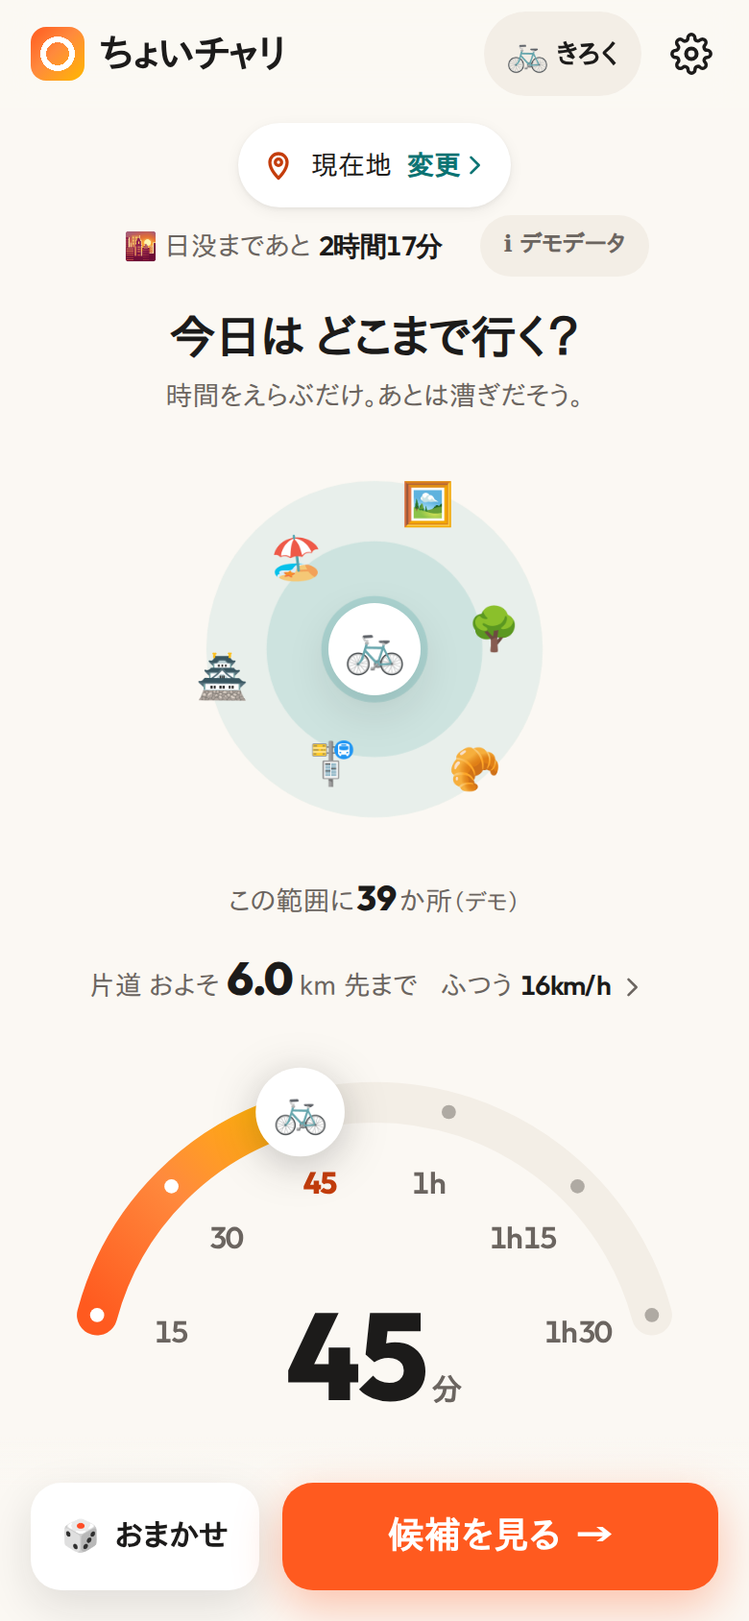
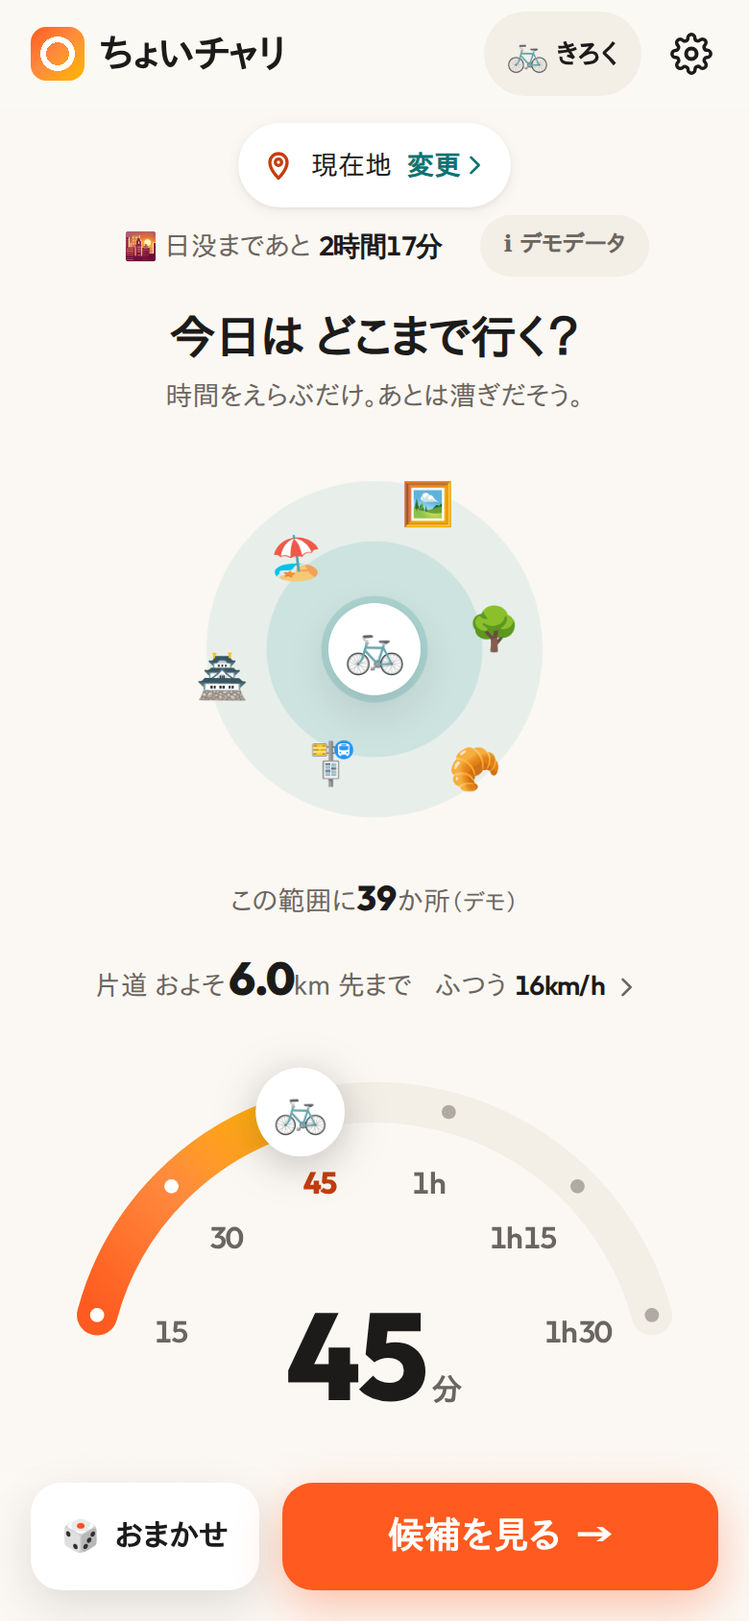
docs: DESIGN v1.1, PRD decisions, screenshots; polish return strip and detail sub-line
Claude-Session: https://claude.ai/code/session_01PC1o1NR9pjdhqeaDhG5sLP

Changed region(s): [[0.1231, 0.5237, 0.8615, 0.6161]]

diff --git a/src/components/ReturnCard.tsx b/src/components/ReturnCard.tsx
@@ -12,7 +12,9 @@ export function ReturnCard({ departure, onYes, onNo }: { departure: Departure; o
         {emoji}
       </span>
       <h2 id={titleId} className="return-card__title">
-        <span className="return-card__name">{departure.name}</span>、行ってきた？
+        <span className="return-card__name">{departure.name}</span>
+        <span className="visually-hidden">、</span>
+        <span className="return-card__ask">行ってきた？</span>
       </h2>
       <button type="button" className="btn btn--primary return-card__yes pressable" onClick={onYes}>
         ✓ 走った

diff --git a/src/styles/states.css b/src/styles/states.css
@@ -194,13 +194,22 @@
   font-size: 20px;
 }
 .return-card__title {
-  overflow: hidden;
-  font-size: var(--fs-sub);
-  line-height: 1.35;
+  display: grid;
+  min-width: 0;
+  font-size: var(--fs-body);
+  line-height: 1.3;
   font-weight: 700;
-  display: -webkit-box;
-  -webkit-line-clamp: 2;
-  -webkit-box-orient: vertical;
+}
+.return-card__name {
+  min-width: 0;
+  overflow: hidden;
+  text-overflow: ellipsis;
+  white-space: nowrap;
+}
+.return-card__ask {
+  color: var(--c-text-sub);
+  font-size: var(--fs-caption);
+  font-weight: 500;
 }
 .return-card__yes {
   min-height: 40px;

diff --git a/src/components/HomeView.tsx b/src/components/HomeView.tsx
@@ -75,6 +75,7 @@ export function HomeView({
         <h1 className="home__title">今日は どこまで行く？</h1>
         {firstRun && <p className="home__lead">時間をえらぶだけ。あとは漕ぎだそう。</p>}
       </div>
+      {/* 出発地が未確定のときは案内カードを優先し、レンジは出さない（ダイヤルを CTA の上に収めるため） */}
       {!needsOrigin && (
         <div className="home__reach-art">
           <ReachRings index={index} max={ROUND_TRIP_MINUTES.length - 1} categories={categories} />

diff --git a/src/components/DetailSheet.tsx b/src/components/DetailSheet.tsx
@@ -198,7 +198,7 @@ export function DetailSheet({
               <ElevationIcon label={elev.label} size={12} />
               {round ? (
                 <>
-                  片道 <span className="num">+{trip.climbM}m</span> · {text.long}
+                  片道 <span className="num">+{trip.climbM}m</span> · {text.short}
                 </>
               ) : (
                 text.long

diff --git a/src/styles/detail.css b/src/styles/detail.css
@@ -72,11 +72,10 @@
   display: inline-flex;
   align-items: center;
   gap: 3px;
-  flex-wrap: wrap;
-  justify-content: center;
   max-width: 100%;
   margin-top: 2px;
   font-size: 11px;
+  white-space: nowrap;
   font-weight: 600;
 }
 .stats > .route-pill {

diff --git a/docs/DESIGN.md b/docs/DESIGN.md
@@ -1,6 +1,7 @@
-# DESIGN: Cycling Route Finder デザイン仕様書 v1
+# DESIGN: Cycling Route Finder デザイン仕様書 v1.1
 
 作成: UIデザイン / 2026-10-04 / 対象: PRD v1
+改訂: 2026-10-05 v1.1（BACKLOG-2 を反映。主な変更は各節の「v1.1」注記と §9 の変更点一覧）
 実装前提: Vite + React + TypeScript + 素のCSS（CSS Modules または単一CSS）。外部UIライブラリなし。アイコンはインラインSVG＋絵文字。
 
 ---
@@ -61,7 +62,17 @@
 
 ダーク切替: `@media (prefers-color-scheme: dark)` で `:root` を上書き。`<meta name="theme-color">` も media 付きで2つ出す（§7）。
 
-注: 写真上の文字は常に白 `#FFFFFF` ＋ `--c-photo-overlay`。高低差バッジの文字色は Light で白、Dark で `#0F1419`（彩度の高い背景に対する可読性のため）。
+注: 写真上の文字は常に白 `#FFFFFF` ＋ `--c-photo-overlay`。
+
+**v1.1 高低差バッジのトーン（BACKLOG-2 D11）**: 塗りつぶしをやめ、**淡い背景＋濃い文字**に統一。
+
+| 変数 | Light | Dark | 用途 |
+|---|---|---|---|
+| `--c-flat-soft` / `--c-flat-ink` | `#E1F4E9` / `#137A45` | `rgba(61,214,140,.16)` / `#3DD68C` | 🟢 バッジ背景 / 文字・アイコン |
+| `--c-rolling-soft` / `--c-rolling-ink` | `#FFF0C2` / `#8F6300` | `rgba(255,201,61,.16)` / `#FFC93D` | 🟡 |
+| `--c-hill-soft` / `--c-hill-ink` | `#FDE2E2` / `#C62828` | `rgba(255,107,110,.16)` / `#FF6B6E` | 🔴 |
+
+写真上のピル（カテゴリ）: Light `rgba(255,255,255,.88)`＋黒文字、Dark は半透明の暗色 `rgba(15,20,25,.62)`＋白文字。どちらも `backdrop-filter: blur(6px)`（D7）。
 
 ### 2.2 タイポグラフィ
 
@@ -165,6 +176,13 @@ Dark時の影は `rgba(0,0,0,.4〜.6)` に置き換え、カードは影より `
 - 初期値: 前回選択（localStorage）、初回は 45分。
 - 「候補を見る」押下で一覧へ遷移（取得はダイヤル確定時点で先行開始し、体感を短縮）。
 
+**v1.1 改訂（BACKLOG-2 D8/D15）**
+- 到達レンジは **240px**。最外円のスケールは **0.55〜1.0**。円上の絵文字は**いまの時間で行ける候補に実際にあるカテゴリ**から多い順に最大 6 個、ポップイン（60ms ずつ遅延）。絵文字は親の scale を打ち消して常に **22px**。
+- レンジの下に「この範囲に **N** か所」（デモデータのときは「（デモ）」を添える）。取得中は出さない。
+- 「片道 およそ **6.0**km 先まで」と速度リンク「ふつう 16km/h ›」は同じ行。**ダイヤルは CTA の直上**に寄せる（ホームは `min-height: 100dvh − ヘッダー`、ダイヤルブロックを `margin-top: auto`）。
+- 出発地が未確定（位置情報オフ）のとき、主 CTA は「**出発地をえらぶ →**」（出発地シートを開く）。案内カードが gold 枠なので、現在地ピルには gold 縁を付けない（二重表示の解消）。
+- 案内カードの文言は位置が取れなかった理由で分ける（拒否 / タイムアウト / 取得不可 / 非対応）。タイムアウト・取得不可は「もう一度ためす」を主ボタンに。
+
 ### 3.2 候補一覧
 
 ```
@@ -190,19 +208,28 @@ Dark時の影は `rgba(0,0,0,.4〜.6)` に置き換え、カードは影より `
 └──────────────────────────────┘
 ```
 
-カード仕様:
+カード仕様（v1.1: 写真下部のメタは「⏱ 40分 · 片道5.4km」, D2）:
 - 写真 `aspect-ratio: 16/10`、`object-fit: cover`、未取得時はフォールバック（§5）を表示し、写真が来たらクロスフェード。
 - 写真上: 左上カテゴリピル（`rgba(255,255,255,.9)` 背景・黒文字・`--fs-caption`）、右上 ♡（44px タップ領域）。下部に名称（2行まで省略）とメタ「片道5.8km · 往復42分」。数字は `--font-num`。
 - 写真下の帯（高さ 48px、`--c-surface`）: 左に高低差バッジ（§4）、右にミニ標高グラフ（幅 96px × 28px、SVG polyline、線色＝ラベル色、下を同色 15% で塗り）。標高未取得中は帯の右側をシマー。
 - 訪問済み: メタ行末に `✓ 行った` ピル（`--c-accent`）。
 - 1列レイアウト（スマホ）。幅 ≥ 720px で2列、≥ 1080px で3列（`grid-template-columns: repeat(auto-fill, minmax(320px,1fr))`）。
 
-フィルタ/並び替え:
+フィルタ/並び替え（v1.1: **1 段の横スクロール**に統合, D13）:
 - ヘッダー下 sticky（`top: 56px`、背景 `--c-bg` 92% + `backdrop-filter: blur(12px)`）。
+- 並び: 高低差チップ（全部/平坦/ゆる/ヒル）→ 区切り線 → カテゴリチップ。カテゴリは**選択中だけラベルを出す**（非選択は絵文字の丸チップ）。
+- **件数と並び順は 1 行**: 「**12**件（39件中） リセット　　　[近い順 ▾]」。
 - 高低差チップ: 単一選択（全部/平坦/ゆる/ヒル）。選択時に各色の塗り＋白文字。
 - カテゴリ: 複数選択の絵文字丸チップ（40px円、ラベルは `aria-label`）。選択時 `--c-primary` リング 2px。
 - 並び替え: ネイティブ `<select>` を見た目だけ整える（近い順 / 遠い順 / 平坦順 / ランダム / 行ったことない順）。
-- 件数行: 「32件の行き先」＋デモ時は「· デモデータ」ピル（§3.6）。
+- 件数行: 「**32**件の行き先」＋デモ時は「デモデータ」ピル（§3.6）。デモの注記は**この 1 か所だけ**（カードごとの注記はしない, D9）。
+- FAB（🎲）: **おすすめだけを表示中は出さない**。一覧では下スクロールで隠し、上スクロールで出す。最後のカードの下に `padding-bottom: 88px`（D4）。
+
+**今日のおすすめカード（v1.1, D9）**
+- 写真（16:10、暗いオーバーレイなし。カテゴリピルのために上部 38% だけ薄い影）→ 名称 → 「⏱ **40**分 · 片道**5.4**km」（数字 28px / 800）と右にミニ標高グラフ（88×32）→ 高低差バッジ → 主ボタン「🚲 Googleマップで出発 →」。
+- 詳細は**写真かタイトルのタップ**で開く（「くわしく」ボタンは置かない）。
+- 「⏱」の時間は現在のルート（既定 往復）の走行目安、距離は**片道**と明記。数値はカード・ガチャ・詳細・出発記録で同じ計算（§4.1）。
+- 実 API が失敗してデモに落ちたとき（`?demo=1` 以外）は、主ボタンを「くわしく見る →」にしてカードから直接は出発させない（詳細の注意書き付きボタンのみ, C6）。
 - フィルタで0件になった時は §3.6 の空状態を一覧内に表示。
 
 ### 3.3 詳細ボトムシート
@@ -213,34 +240,40 @@ Dark時の影は `rgba(0,0,0,.4〜.6)` に置き換え、カードは影より `
 ┌──────────────────────────────┐
 │            ━━━               │ ← グラバー 36×4px
 │ ┌──────────────────────────┐ │
-│ │     [ 写真 横スワイプ ]    │ │ ← 複数枚ならドット表示、高さ 220px
+│ │     [ 写真 ]               │ │ ← 高さ 220px
 │ │ 🌳 公園              ♡  ✕│ │
 │ └──────────────────────────┘ │
 │ 代々木公園                     │ ← h1
-│ ┌────────┬────────┬────────┐ │
-│ │ 6.2 km │  44 分  │ +38 m  │ │ ← スタッツ3連（--fs-display）
-│ │ 片道    │ 往復目安 │ 🟢平坦  │ │
-│ └────────┴────────┴────────┘ │
-│ 標高プロファイル    最大勾配 4% │
-│  m ▁▂▂▃▅▆▅▃▂▁▁▂▃▂▁           │ ← 標高図 高さ 120px
-│  🏠 出発            📍 到着    │
 │ ┌────────────┬─────────────┐ │
-│ │  片道で行く  │ ●往復でまわる │ │ ← セグメント切替
+│ │  片道で行く  │ ●往復でまわる │ │ ← セグメント 高さ 40px（v1.1: 店名の下・スタッツの上）
 │ └────────────┴─────────────┘ │
-│ ─ ─ ─ ─ ─ ─ ─ ─ ─ ─ ─ ─ ─ ─  │
-│ [ ✓ 走った！ ]                 │ ← 副ボタン（アウトライン）
+│ ┌────────┬────────┬────────┐ │      [経路で更新] ← 2 秒だけ
+│ │12.4 km │  45 分  │ +22 m  │ │ ← スタッツ3連（--fs-display）
+│ │ 往復    │ 往復の目安│往復の上り│ │
+│ │        │        │片道 +11m · 平坦│
+│ └────────┴────────┴────────┘ │
+│ ※ 滞在時間を含まない走行の目安   │ ← 注記は 1 行（直線推定なら「（道のりは直線から推定）」）
+│ 標高  のんびり平坦   最大勾配 4% │ ← ラベルは見出しの横
+│ 110m ┌────────────────高低差 12m┐│
+│      │ ‥‥‥‥‥‥‥‥‥‥‥‥‥‥‥ │ ← 補助線 1 本
+│  40m └──────────────────────┘│ ← 軸ラベルは軸の端の値
+│  🏠 出発      📍 折り返し   🏠 帰着│
+│ [        ✓ 走った！         ] │ ← 全幅
+│         昨日の分として記録        │ ← テキストリンク
 │ ┌──────────────────────────┐ │
 │ │  🚲 Googleマップで出発 →   │ │ ← 主CTA 56px、下部固定、--sh-glow
 │ └──────────────────────────┘ │
+│ 徒歩で開く      ※デモの架空の場所 │
 └──────────────────────────────┘
 ```
 
-- スタッツ: 数字 `--fs-display`、ラベル `--fs-caption --c-text-sub`。高低差セルは数字の色をラベル色に。
-- 標高プロファイル: SVG。面グラデ（ラベル色 35%→0%）＋線 2px。Y軸は最小/最大値のみ表示、X軸は出発/到着アイコン。往復モード時は折り返し点に縦破線＋「📍」、横幅を往復分に拡張。タップ/ドラッグで縦カーソルと「1.8km地点 · 42m」ツールチップ。経路が直線補間の場合、図の右下に「※ 直線で推定」(`--fs-caption`)。
-- 片道/往復セグメント: 高さ 44px、選択側 `--c-accent` 塗り白文字。切替で距離/時間/獲得標高の数値をカウントアップ（`--dur-base`）。初期は「往復」（運動目的のため）。
-- 主CTA「Googleマップで出発」: `--c-primary`、白文字 18px/700、右端に → が押下で 4px 右へ。新規タブ（PWAでは外部アプリ）で開く。
-- 「走った！」: 押すと §3.5 の記録演出。記録済みの日は「✓ 今日走った！」に変化し無効化ではなくトグル（取り消し可）。
-- フォーカス管理: 開いたらシート見出しへフォーカス、`Esc`/✕ で閉じて元カードへ戻す。`role="dialog" aria-modal="true"`。
+- スタッツ: 数字 `--fs-display`、ラベル `--fs-caption --c-text-sub`。高低差セルの数字とサブ行はラベル色（`--c-*-ink`）。
+- 数値は §4.1 の `tripEstimate` そのもの（カードと同じ）。経路（OSRM）が取れたら数値をカウントアップ（600ms、reduce-motion は即時）し、スタッツ右上に「経路で更新」ピルを 2 秒表示。経路が取れずに直線フォールバックしたときは一覧の推定値のまま（§4）。
+- 標高プロファイル: SVG。面グラデ（ラベル色 35%→0%）＋線 2px。縦レンジ・軸・補助線・「高低差 Xm」は §4.2。往復モード時は横幅を往復分に拡張し、折り返し点に縦破線＋「📍 折り返し」（位置は距離から計算）。タップ/ドラッグで縦カーソルと「1.8km地点 · 42m」ツールチップ。
+- 片道/往復セグメント: 高さ 40px、選択側 `--c-accent` 塗り白文字。初期は「往復」（運動目的のため）。出発地が仮（デモ地点）のときは往復を無効化し「仮の出発地なので片道だけ」。
+- 主CTA「Googleマップで出発」: `--c-primary`、白文字 18px/700、右端に → が押下で 4px 右へ。新規タブ（PWAでは外部アプリ）で開く。出発地を手動で選んだときは URL に `origin=` を明示する（GPS のときは省略して Google マップの現在地を使う）。
+- 「走った！」: 全幅のアウトライン。押すと §3.5 の記録演出。記録済みの日は「✓ 今日走った！」に変化しトグル（取り消し可）。「昨日の分として記録」はその下のテキストリンク。
+- フォーカス管理: 開いたらシート見出しへフォーカス、`Esc`/✕/ブラウザの「戻る」で閉じて元カードへ戻す。`role="dialog" aria-modal="true"`、見出し id は `useId`。背面スクロールは `body { position: fixed; top: -scrollY }` で止める（iOS 対応）。
 
 ### 3.4 ガチャ演出（迷ったらランダム）
 
@@ -252,10 +285,14 @@ Dark時の影は `rgba(0,0,0,.4〜.6)` に置き換え、カードは影より `
 3. パカッと割れて（上下に分離、900〜1150ms）、中から光の放射線（`--c-gold` の放射状 conic-gradient、回転）。
 4. 結果カード（一覧カードと同デザイン、幅 90%）が下からせり上がる（1150〜1600ms）。紙吹雪は CSS のみ（12個の小矩形、ゴールド/オレンジ/ティール、落下 800ms）。
 
-結果カード下のボタン:
-- 主: 「ここに決めた！」→ 詳細シートを開く
+v1.1（D3）: スクリムは `--c-gacha-scrim` ＋ `backdrop-filter: blur(10px)`。演出中は「**N**件の中から…」＋「どこにしよう…」。結果カードは一覧カードと同デザインで、**未訪問なら右上に NEW リボン**（ゴールドの斜め帯）。
+
+結果カード下のボタン（**下寄せ**・親指ゾーン）:
+- 主: 「🚲 **ここに決めて出発 →**」→ Google マップへ直行（出発記録も残す）
+- その下にテキストリンク「くわしく見る」→ 詳細シート
 - 副: 「もう1回 🎲」（直前の結果は除外して再抽選）
 - テキストリンク: 「やめとく」
+- 実 API 失敗でデモに落ちているとき（C6）は直行させず、主ボタンを「くわしく見る →」にする。
 
 reduce-motion: ステップ1〜3を省略し、結果カードをフェード表示（`--dur-fast`）。候補0件時はガチャボタンを無効化せず、押下時に「今の条件だと候補がないみたい。フィルタをゆるめてみよう」トースト。
 
@@ -285,6 +322,9 @@ reduce-motion: ステップ1〜3を省略し、結果カードをフェード表
 ```
 - スタンプ: 訪れた場所ごとに1つ。円形、カテゴリ色の二重線（外 3px・内 1px）、中央に絵文字、下に場所名（1行省略）と日付 `10/04`。わずかに `rotate(-6〜6deg)` をランダムに付けて「押した感」。
 - 「走った！」押下時の演出: 詳細シート上でスタンプが上から落ちて押印（scale 1.4→1、`--ease-spring`、300ms）＋ 🔥バッジが +1 でバウンス。トースト「🔥 4日連続！その調子」。初訪問なら「新しいスタンプ GET！」。
+- v1.1（D18）: 今週の行の今日の列に「今日」を表示（`aria-current="date"`）。目標未達なら「あと N 回で目標クリア」、残り 1 回は「**あと1回で目標クリア！**」を強調色で。
+- v1.1（D10）: 「行ってきた？」は高さ **64px の 1 行の帯**（絵文字 36px / 名称 2 行まで / 「✓ 走った」ピル / ✕）。
+- v1.1（D20）: ストリーク 0 のときのヘッダーボタンは「🚲 きろく」とラベル付き。
 - ストリーク定義（表示上）: 当日または前日に記録があれば継続表示。途切れた時は「また今日からはじめよう」と表示し、過去の最長記録「ベスト 7日」を小さく添える。
 
 ### 3.6 状態別の表示
@@ -295,35 +335,58 @@ reduce-motion: ステップ1〜3を省略し、結果カードをフェード表
 | **段階ロード** | カード本体（名前・距離）→ 写真（フェードイン）→ 標高バッジ/ミニグラフ（シマー→描画）の順で埋まる。未確定の数値は「— m」。 |
 | **空（0件）** | イラスト: 大きな 🧭（64px）＋ 薄い同心円。見出し「この条件だと見つからなかった」本文「時間をのばすか、フィルタをゆるめてみよう」。ボタン「フィルタをリセット」「時間を +15分」。 |
 | **ネットワークエラー** | 自動でモックにフォールバックするため通常は出さない。モックも失敗した場合のみ: 🌧 ＋「電波がちょっと迷子みたい」「もう一度さがす」ボタン。 |
-| **オフライン** | 上部に `--c-text` 背景・白文字の細帯「オフライン中 · 前回の候補を表示中」。Googleマップ CTA は有効のまま（外部アプリ側に委ねる）。 |
+| **オフライン** | 上部に `--c-text` 背景・白文字の細帯「オフライン中 · 前回の候補を表示中」。前回の候補を使うのは**出発地が保存時から 1km 以内**のときだけ（保存するのは各時間の表示上位のみ）。Googleマップ CTA は有効のまま（外部アプリ側に委ねる）。 |
+| **実 API 失敗 → デモ**（v1.1, C6） | 件数行にデモピルと「実データでさがし直す」。アプリに戻った（visible になった）ときは自動で再試行。カードとガチャからは直接出発させない（詳細の注意書き付きボタンのみ）。 |
+| **新しいバージョン**（v1.1, C16） | SW は prompt 型。ホーム表示中（何も開いていない）なら即時適用、それ以外はボタン付きトースト「新しいバージョンがあります［更新する］」。 |
 | **位置情報 拒否/不可** | ホームの現在地ピルが `--c-gold` 縁取りに変化「📍 東京駅（仮の出発地）変更 ›」。初回のみダイヤル上にインラインカード:「位置情報がオフみたい。いまは東京駅から探すね」＋「出発地を選ぶ」ボタン。ブロックしない（そのまま候補を見られる）。 |
 | **出発地の手動変更** | フルシート: 上に検索入力（住所/駅名）、下に「現在地を使う」「東京駅（デモ）」と最近使った地点3件。地図表示はv1では任意（あれば中央固定ピン方式）。 |
-| **デモデータ** | 件数行に `デモデータ` ピル（`--c-surface-2` 背景、`--fs-caption`、ℹ付き）。タップで「いまはサンプルの行き先を表示中。電波やAPIが戻ると実データになるよ」ポップオーバー。カード自体は通常通り（体験を損なわない）。 |
+| **デモデータ** | 件数行に 1 つだけ `デモデータ` ピル（`--c-surface-2` 背景、`--fs-caption`、ℹ付き）。タップで「いまはサンプルの行き先を表示中。電波やAPIが戻ると実データになるよ」ポップオーバー。カード自体は通常通り（体験を損なわない）。 |
 | **写真なし** | §5 のフォールバックを最初から表示。「写真なし」とは書かない。 |
+| **付近の写真**（v1.1, C11） | Commons の近傍検索で見つけた写真（公園・展望・寺社・史跡のみ）は、写真右上のクレジットに「付近の写真」と明記。 |
 | **標高取得失敗** | バッジを「高低差 —」グレー、ミニグラフ非表示。詳細では「標高データを取れなかった」1行のみ。 |
 
 ---
 
 ## 4. 高低差の可視化ルール
 
-指標: **獲得標高 G（m、片道経路の累積上り）** と **上り比率 R = G ÷ 片道距離(km)（m/km）**。短距離で G が小さくても急坂なら「ヒル」になるよう、両方で判定する。
+指標: **獲得標高 G（m）= max(行きの上り, 帰りの上り)** と **上り比率 R = G ÷ 片道距離(km)（m/km）**。短距離で G が小さくても急坂なら「ヒル」になるよう、両方で判定する。
 
 | ラベル | 条件（上から順に判定） | 色 | アイコン |
 |---|---|---|---|
-| 🔴 **ヒルクライム** | R ≥ 15 m/km **または** G ≥ 150m **または** 最大勾配 ≥ 8% | `--c-hill` | 山2つの尖ったSVG（▲▲）＋絵文字🔴 |
+| 🔴 **ヒルクライム** | R ≥ 15 m/km **または** G ≥ 150m **または** 最大勾配 ≥ 8%（経路形状のある詳細のみ） | `--c-hill` | 山2つの尖ったSVG（▲▲）＋絵文字🔴 |
 | 🟡 **ゆるアップダウン** | R ≥ 6 m/km **または** G ≥ 40m | `--c-rolling` | 波線SVG（〰）＋🟡 |
 | 🟢 **フラット** | 上記以外 | `--c-flat` | 水平線SVG（━）＋🟢 |
 
-- 最大勾配は 100m 以上の区間で平滑化した値を使う（標高サンプルのノイズで誤判定しないため）。
-- バッジ表記: `[アイコン] +86m ゆる`（高さ 28px、`--r-sm`、ラベル色塗り）。色だけに頼らず**テキストとアイコン形状**で区別（色覚多様性対応）。
-- 往復表示時の G は往路上り＋復路上り（＝往路の下り）の合計。ラベル判定は常に片道基準で固定（切替でラベルが変わると混乱するため）。
-- 一覧の文言: フラット「のんびり平坦」/ ゆる「ほどよくアップダウン」/ ヒル「登りごたえあり」（詳細シートのサブテキスト）。
+- 最大勾配は 300m 以上の区間で平滑化した値を使う（標高サンプルのノイズで誤判定しないため）。
+- ラベル判定は常に片道基準で固定（切替でラベルが変わると混乱するため）。
+- 一覧の文言: フラット「のんびり平坦」/ ゆる「ほどよくアップダウン」/ ヒル「登りごたえあり」（詳細の「標高」見出しの横）。
 
----
+### 4.1 数字の出し方（v1.1, BACKLOG-2 D2）
+
+距離・時間・上りは `tripEstimate(place, mode)` の 1 関数で計算し、**カード・ガチャ・詳細・出発記録で共有**する。
+
+| 値 | 計算 | 表示 |
+|---|---|---|
+| 片道距離 | 経路（OSRM）が取れていれば経路距離、なければ直線 × 1.3 | 0.1km 単位。往復は「丸めた片道 × 2」 |
+| 走行時間 | 距離 ÷ 速度 ＋ 上り 10m ごとに +0.5 分（滞在は含まない） | **5 分単位**（15 分未満のみ 1 分単位） |
+| 上り | 往復 = 行き＋帰りの上り、片道 = 行きの上り | m 単位 |
+
+- カード: 「⏱ **40**分 · 片道**5.4**km」。⏱ は現在のルート（既定 往復）の時間。
+- 詳細で経路が取れたら経路距離を保存し、一覧の距離・時間にも反映。値が変わったらカウントアップ＋「経路で更新」ピルを 2 秒。
+- 詳細の高低差セル: 往復モードは「**+22m** / 往復の上り」＋サブ行「片道 +11m · 平坦」（片道 = G とラベルの短縮形。**カードのバッジ `+11m 平坦` と同じ表記**にして見比べやすく。3 列のセル幅に 1 行で収めるため短縮形）。片道モードは「+Xm / 行きの上り」＋サブ行「フラット」。
+
+### 4.2 バッジとグラフ（v1.1, BACKLOG-2 D1/D11）
+
+- **バッジ**: `[アイコン] +86m ゆる`（高さ 28px、`--r-sm`）。**淡い背景＋濃い文字**（§2.1 の `--c-*-soft` / `--c-*-ink`）。色だけに頼らず**テキストとアイコン形状**で区別（色覚多様性対応）。数字は G。
+- 一覧の値は直線補間による**推定**で、数字の前に「**≈**」を付ける（例: `≈+22m ゆる`、読み上げは「高低差 約22m ゆる（推定）」）。詳細で経路（OSRM）が取れたら経路沿いの値に確定してカードも更新（≈ が消える）。**直線フォールバックのときは確定させない**（一覧にも反映しない）。
+- **縦レンジ**（詳細・ミニ共通）: `span = max(実レンジ × 1.15, 60m)` を中央寄せし、下端・上端を 10m 単位で外側に丸める。データがすべて 0m 以上なら下端は 0 を割らない（上へずらす）。→ 10m 程度の起伏が山のように見えない。
+- 詳細グラフ: 軸ラベルは**軸の端の値**（上端・下端）のみ。中央に補助線（破線）1 本。右上に「**高低差 Xm**」（最高 − 最低）。往復の折り返し線は `片道距離 ÷ 往復距離` の位置。
+- ミニグラフ: カード帯 96×28 / おすすめ 88×32。面は線と同色 12%。
+- 水面ペナルティ（海・川を直線で横切る候補）は**一覧の並びにだけ**使い、おすすめには使わない。判定は「始点と終点が 0m より上で、その間の 0m 以下が 3 点以上連続」（ゼロメートル地帯は対象外）。
 
 ## 5. 写真フォールバックビジュアル
 
-構成: カテゴリ別 **斜めグラデーション（135deg）** ＋ 中央に大きな絵文字（写真枠高さの 40%）＋ 右下に半透明の大きな同絵文字（200%、opacity .12、`rotate(-12deg)`）で奥行き。さらに下部に白 10% の緩い波線SVG（道のモチーフ）を共通で重ねる。同カテゴリ内で単調にならないよう、場所IDのハッシュで **グラデ角度を 115〜155deg** で揺らす。
+構成: カテゴリ別 **斜めグラデーション（135deg）** ＋ **上寄せ**の大きな絵文字（写真枠高さの 34%、上から 14%。下部に重ねる名称と重ならない）＋ 右下に半透明の大きな同絵文字（200%、opacity .12、`rotate(-12deg)`）で奥行き。さらに下部に白 12% の緩い波線SVG（道）と**白の破線センターライン**、左側に**太陽の円**、全体に**粒子ノイズ**（SVG feTurbulence、soft-light 22%）を重ねる（v1.1, D7/D17）。同カテゴリ内で単調にならないよう、場所IDのハッシュで **グラデ角度を 115〜155deg** で揺らす。
 
 | カテゴリID | 表示名 | 絵文字 | グラデ（from → to） | 該当OSMタグ例 |
 |---|---|---|---|---|
@@ -345,7 +408,8 @@ reduce-motion: ステップ1〜3を省略し、結果カードをフェード表
 
 - 文字は全て白＋`--c-photo-overlay` で可読性確保（どのグラデでも同じ扱い）。
 - カテゴリ絵文字・表示名はフィルタチップ、カテゴリピル、スタンプで共通利用（単一の定義テーブルから参照）。
-- Dark モードではグラデの明度を下げず、カード全体に `filter: brightness(.9)` のみ。
+- Dark モードではグラデの明度を下げず、写真・フォールバックに `filter: brightness(.9)` のみ。写真上のピルは半透明の暗色（§2.1）。
+- 一覧カード（名称を写真に重ねる）は下部に `--c-photo-overlay`。おすすめカード（名称は写真の下）は暗いオーバーレイを使わず、上部だけ薄い影。
 
 ---
 
@@ -355,9 +419,11 @@ reduce-motion: ステップ1〜3を省略し、結果カードをフェード表
 |---|---|
 | ホーム見出し | 今日は どこまで行く？ |
 | ダイヤル下 | 片道 およそ **6.4km** 先まで |
-| 主CTA（ホーム） | 候補を見る → |
+| 主CTA（ホーム） | 候補を見る → ／ 出発地が未確定なら「出発地をえらぶ →」 |
 | ガチャボタン | 🎲 おまかせ |
-| 一覧件数 | **32**件の行き先が見つかった |
+| 一覧件数 | **32**件の行き先 ／ 絞り込み時 **12**件（32件中） ／ ボタン「もっと見る（32件）」 ／ ホーム「この範囲に **32** か所」 |
+| カードのメタ | ⏱ **40**分 · 片道**5.4**km |
+| 経路で更新 | 経路で更新 |
 | ローディング | 近くの行き先をさがし中… 🚲 |
 | 詳細 主CTA | 🚲 Googleマップで出発 |
 | 片道/往復 | 片道で行く / 往復でまわる |
@@ -366,11 +432,17 @@ reduce-motion: ステップ1〜3を省略し、結果カードをフェード表
 | 新スタンプ | 新しいスタンプ GET！ {場所名} |
 | ストリーク途切れ | また今日からはじめよう。ベストは{n}日 |
 | 今週目標達成 | 今週の目標クリア 🎉 えらすぎる |
-| ガチャ中 | どこにしよう… |
-| ガチャ結果 | 今日はここ！ / ここに決めた！ / もう1回 🎲 / やめとく |
+| ガチャ中 | **N**件の中から… ／ どこにしよう… |
+| ガチャ結果 | 今日はここ！ / 🚲 ここに決めて出発 → / くわしく見る / もう1回 🎲 / やめとく |
 | 空状態 | この条件だと見つからなかった ／ 時間をのばすか、フィルタをゆるめてみよう |
 | エラー | 電波がちょっと迷子みたい ／ もう一度さがす |
-| 位置情報拒否 | 位置情報がオフみたい。いまは東京駅から探すね ／ 出発地を選ぶ |
+| 位置情報拒否 | 位置情報がオフみたい。出発地をえらぼう ／ 出発地を選ぶ ／ デモで試す（東京駅） |
+| 位置情報タイムアウト | 現在地がなかなか取れないみたい ／ もう一度ためす |
+| 位置情報取得不可 | いまは現在地が取れないみたい ／ もう一度ためす |
+| デモに落ちたとき | 実データでさがし直す |
+| 新しい版 | 新しいバージョンがあります ／ 更新する |
+| 目標まであと1回 | あと1回で目標クリア！ |
+| 近傍写真 | 付近の写真 |
 | デモデータ説明 | いまはサンプルの行き先を表示中。電波やAPIが戻ると実データになるよ |
 | オフライン | オフライン中 · 前回の候補を表示中 |
 | 訪問済み | ✓ 行った |
@@ -409,3 +481,26 @@ reduce-motion: ステップ1〜3を省略し、結果カードをフェード表
 - [ ] 下部固定CTAは safe-area 対応、スクロールコンテンツ末尾に CTA 高さ分の余白。
 - [ ] `prefers-reduced-motion` と `prefers-color-scheme` を実機で両方確認。
 - [ ] 画面幅 360px（小型Android）で、ダイヤル・スタッツ3連・CTA が折り返さず収まること。
+
+---
+
+## 9. v1.1 の変更点一覧（BACKLOG-2）
+
+| 項目 | 変更 | 節 |
+|---|---|---|
+| D1 | 標高グラフの縦レンジ（最小 60m・中央寄せ・10m 丸め）、軸の端ラベル、補助線 1 本、「高低差 Xm」、折り返し線を距離から | §4.2 |
+| D2 | `tripEstimate` で数字を一本化、5 分丸め、経路で更新（カウントアップ＋ピル）、カードは「片道」明記、詳細の上り表記 | §4.1, §3.3 |
+| D3 | ガチャ: スクリム blur、ボタン下寄せ、「ここに決めて出発」で直行＋「くわしく見る」、やめとくはリンク、NEW リボン、「N件の中から…」 | §3.4 |
+| D4 | FAB はおすすめのみ表示中は出さない、下スクロールで隠す、一覧末尾 88px | §3.2 |
+| D5 | 設定アイコンを歯車に | — |
+| D6 | 詳細の並び（セグメント 40px を店名の下へ、ラベルは標高見出しの横、注記を 1 行に） | §3.3 |
+| D7 | フォールバックの絵文字を上寄せ、おすすめカードの暗いオーバーレイ削除、Dark のピルは半透明 | §5, §2.1 |
+| D8 | ホームの到達レンジ 240px・実カテゴリ・「この範囲に N か所」・ダイヤルを CTA 直上へ | §3.1 |
+| D9 | おすすめカード（大きな数字、ミニグラフ、写真/タイトルで詳細、デモ注記は件数行のみ） | §3.2 |
+| D10 | 「行ってきた？」を 64px の帯に | §3.5 |
+| D11 | 高低差バッジを淡い背景＋濃い文字に、「推定」→「≈」 | §2.1, §4.2 |
+| D13 | フィルタを 1 段の横スクロールに、件数と並び順を 1 行に | §3.2 |
+| D14 | 「走った！」全幅、「昨日の分として記録」はリンク | §3.3 |
+| D15 | 出発地未確定の CTA「出発地をえらぶ →」、gold 枠の二重表示を解消 | §3.1 |
+| D16 | 数字前後の余白（flex の gap・margin）を削除、件数表記を統一 | §6 |
+| D17〜D20 | フォールバックに道・太陽・ノイズ／きろくの「今日」「あと1回」／クレジットを `<details>` に／ストリーク 0 の「きろく」ラベル | §5, §3.5, 設定 |

diff --git a/docs/PRD.md b/docs/PRD.md
@@ -73,3 +73,10 @@
 - 2026-10-04 公開APIへの配慮: 検索結果キャッシュ、Overpass は1検索1リクエスト、ルーティングは詳細表示時のみ、クレジット表示必須。
 - 2026-10-04 高低差: G=max(往路獲得, 復路獲得), R=G/片道km。🔴 R≥15|G≥150|最大勾配≥8%、🟡 R≥6|G≥40。
 - 2026-10-04 実データ0件時はモックにしない（空状態）。モックは全プロバイダ失敗時のみ、デモ表示必須。ルート初期値は「往復」。
+- 2026-10-05 v1.1（BACKLOG-2）: Overpass は `[bbox]` のグローバル指定＋クライアント側で円形に絞る。半径は**現在の速度×90分**（速度を変えたら再取得、キャッシュキーに速度）。historic は値のホワイトリスト（castle / ruins / archaeological_site / monument / fort / city_gate / manor。memorial 等は除外）。`[timeout:25]`、1本目 15 秒、全体 20 秒。Retry-After は待たずに次のエンドポイントへ。
+- 2026-10-05 距離・時間・上りは `tripEstimate` の 1 関数に一本化（カード・ガチャ・詳細・出発記録）。走行時間は 5 分単位（15 分未満は 1 分単位）。経路距離は OSRM のときだけ一覧へ反映し、直線フォールバックは推定（≈）のまま。
+- 2026-10-05 おすすめ 3 件は「日付＋時間＋出発地（約100m）＋速度」で固定。標高の到着や記録で並び替えない。水面ペナルティは一覧の並びのみ（始点・終点 >0m かつ中間 ≤0m が 3 点以上連続）。
+- 2026-10-05 出発地を手動で選んだときは Google マップ URL に `origin=` を明示（片道・往復とも）。GPS のときは従来どおり省略。
+- 2026-10-05 実 API 失敗でデモに落ちたとき（`?demo=1` 以外）は、再試行ボタン＋visible 復帰時の自動再試行。カード・ガチャからの直接出発は無効（詳細の注意書き付きボタンのみ）。
+- 2026-10-05 SW 更新は prompt 型（ホーム表示中のみ即時適用）。Node.js は 22.12 以上。
+

diff --git a/docs/BACKLOG-2.md b/docs/BACKLOG-2.md
@@ -97,3 +97,8 @@
 - D18 きろく: 「今日」の表示と「あと1回で目標クリア！」。
 - D19 クレジットを `<details>` にまとめる。
 - D20 ストリーク 0 のときのヘッダーボタンに「きろく」ラベルを付ける。
+
+## 対応状況（v1.1, 2026-10-05）
+P0・P1・P2 の全項目を `v1.1` ブランチで対応済み。仕様の変更点は DESIGN.md（§2.1 / §3 / §4.1 / §4.2 / §5 / §6 / §9）と PRD.md の決定ログに反映。
+- C1 の historic は「ホワイトリスト = castle / ruins / archaeological_site / monument / fort / city_gate / manor、memorial 等は除外」と解釈した。
+- D2 の詳細サブ行は 3 列のセル幅に収めるため「片道 +11m · 平坦」（カードのバッジと同じ短縮ラベル）にした。
